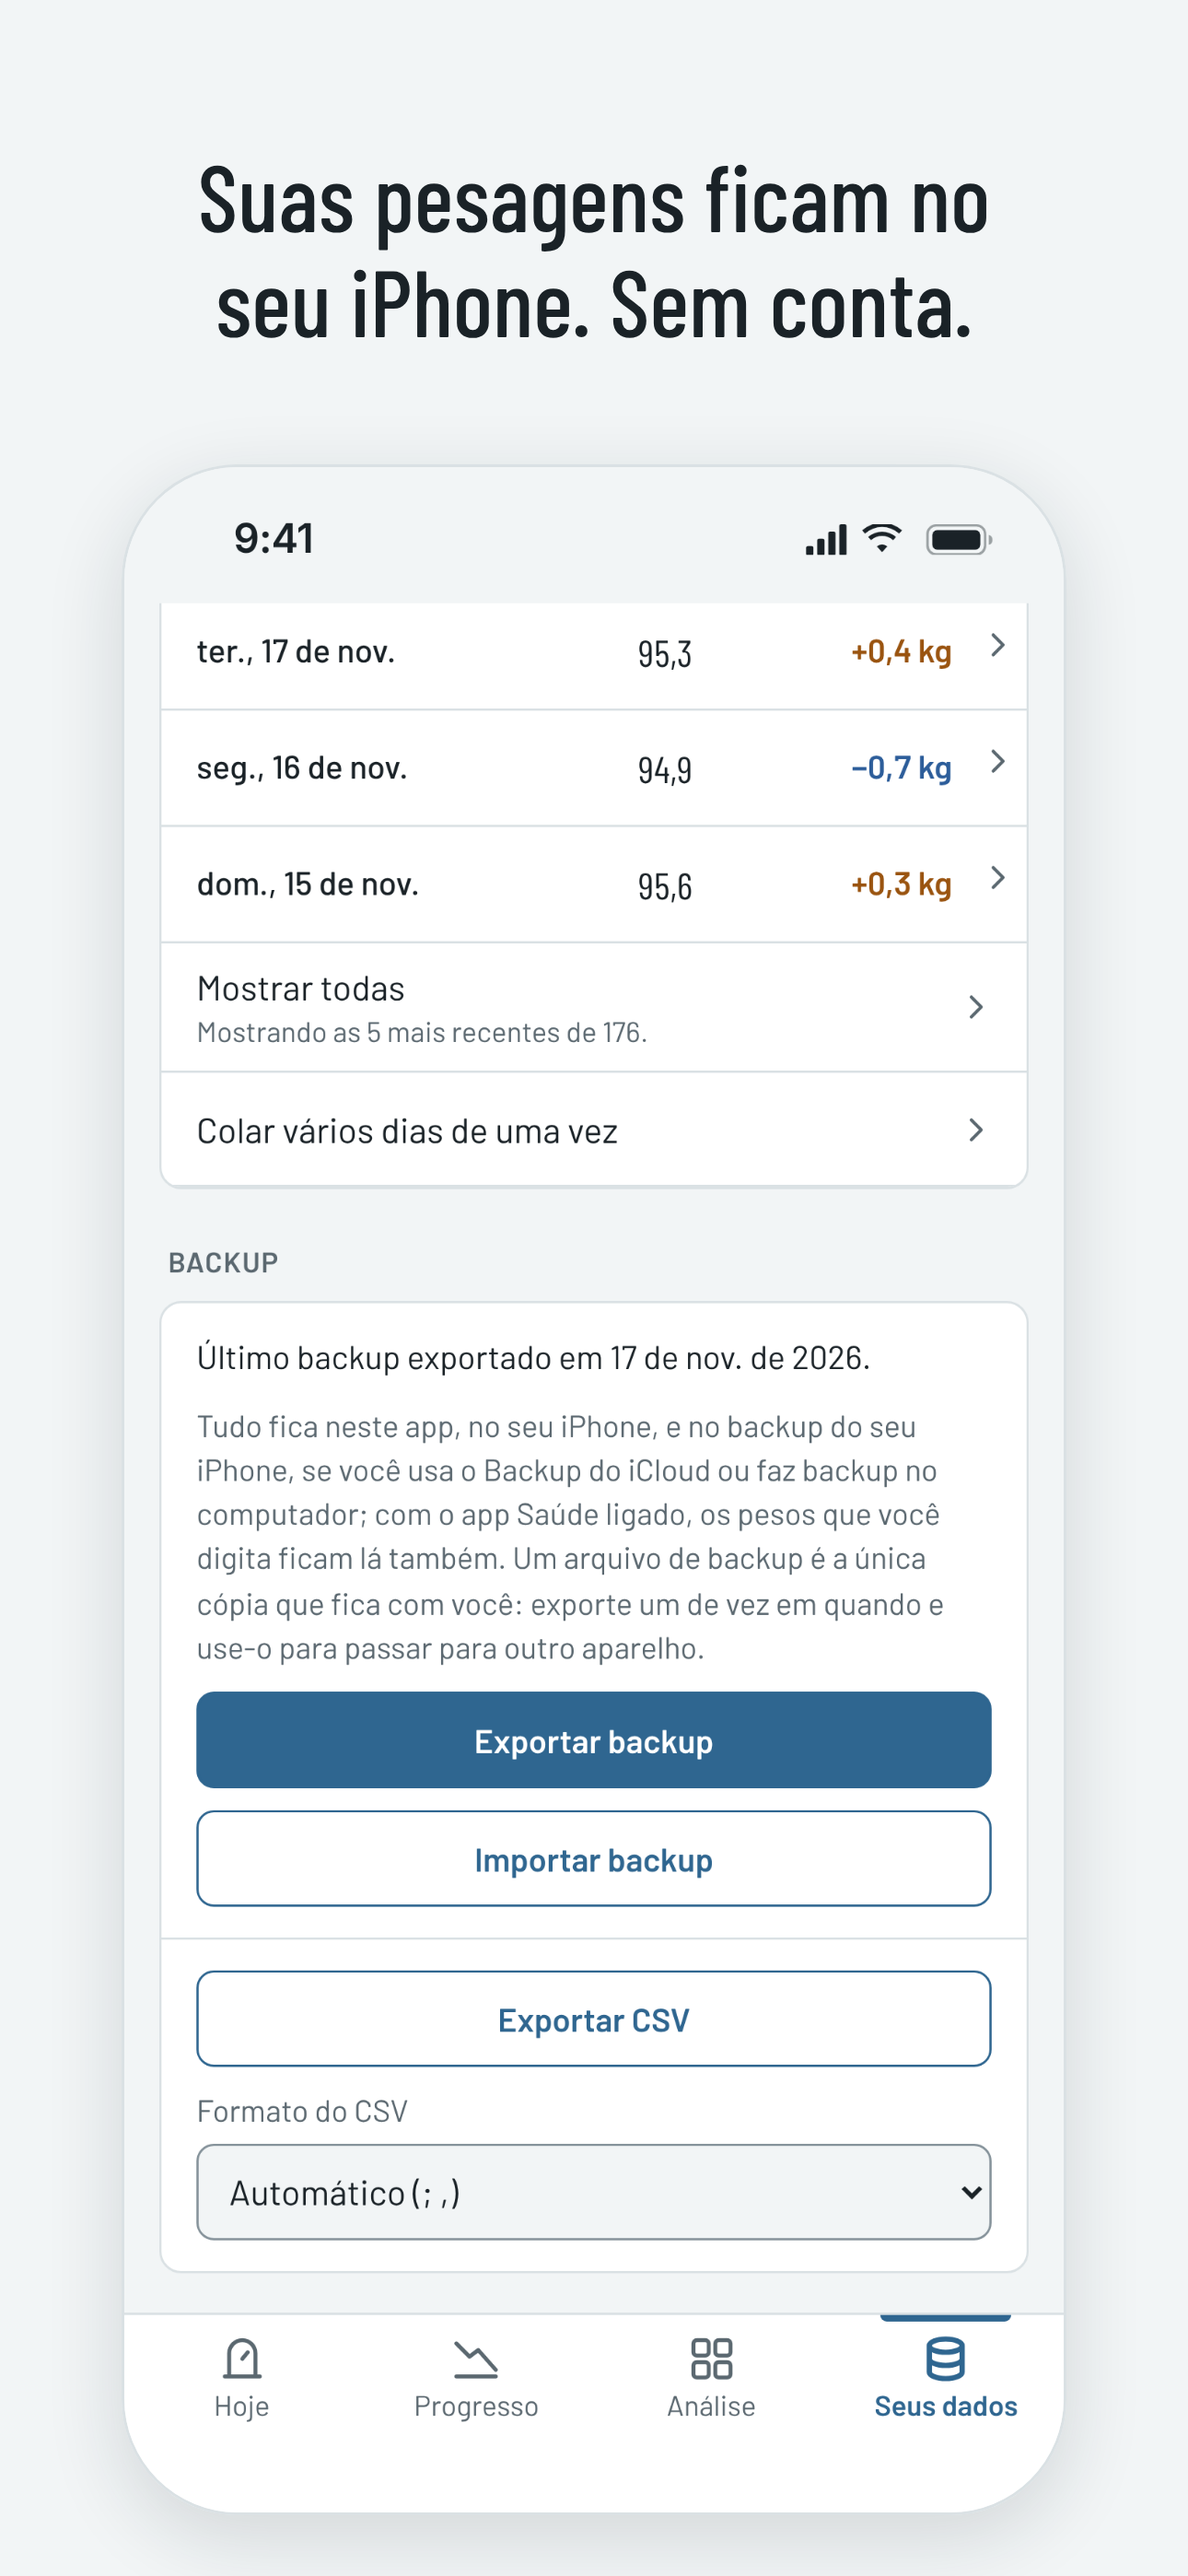
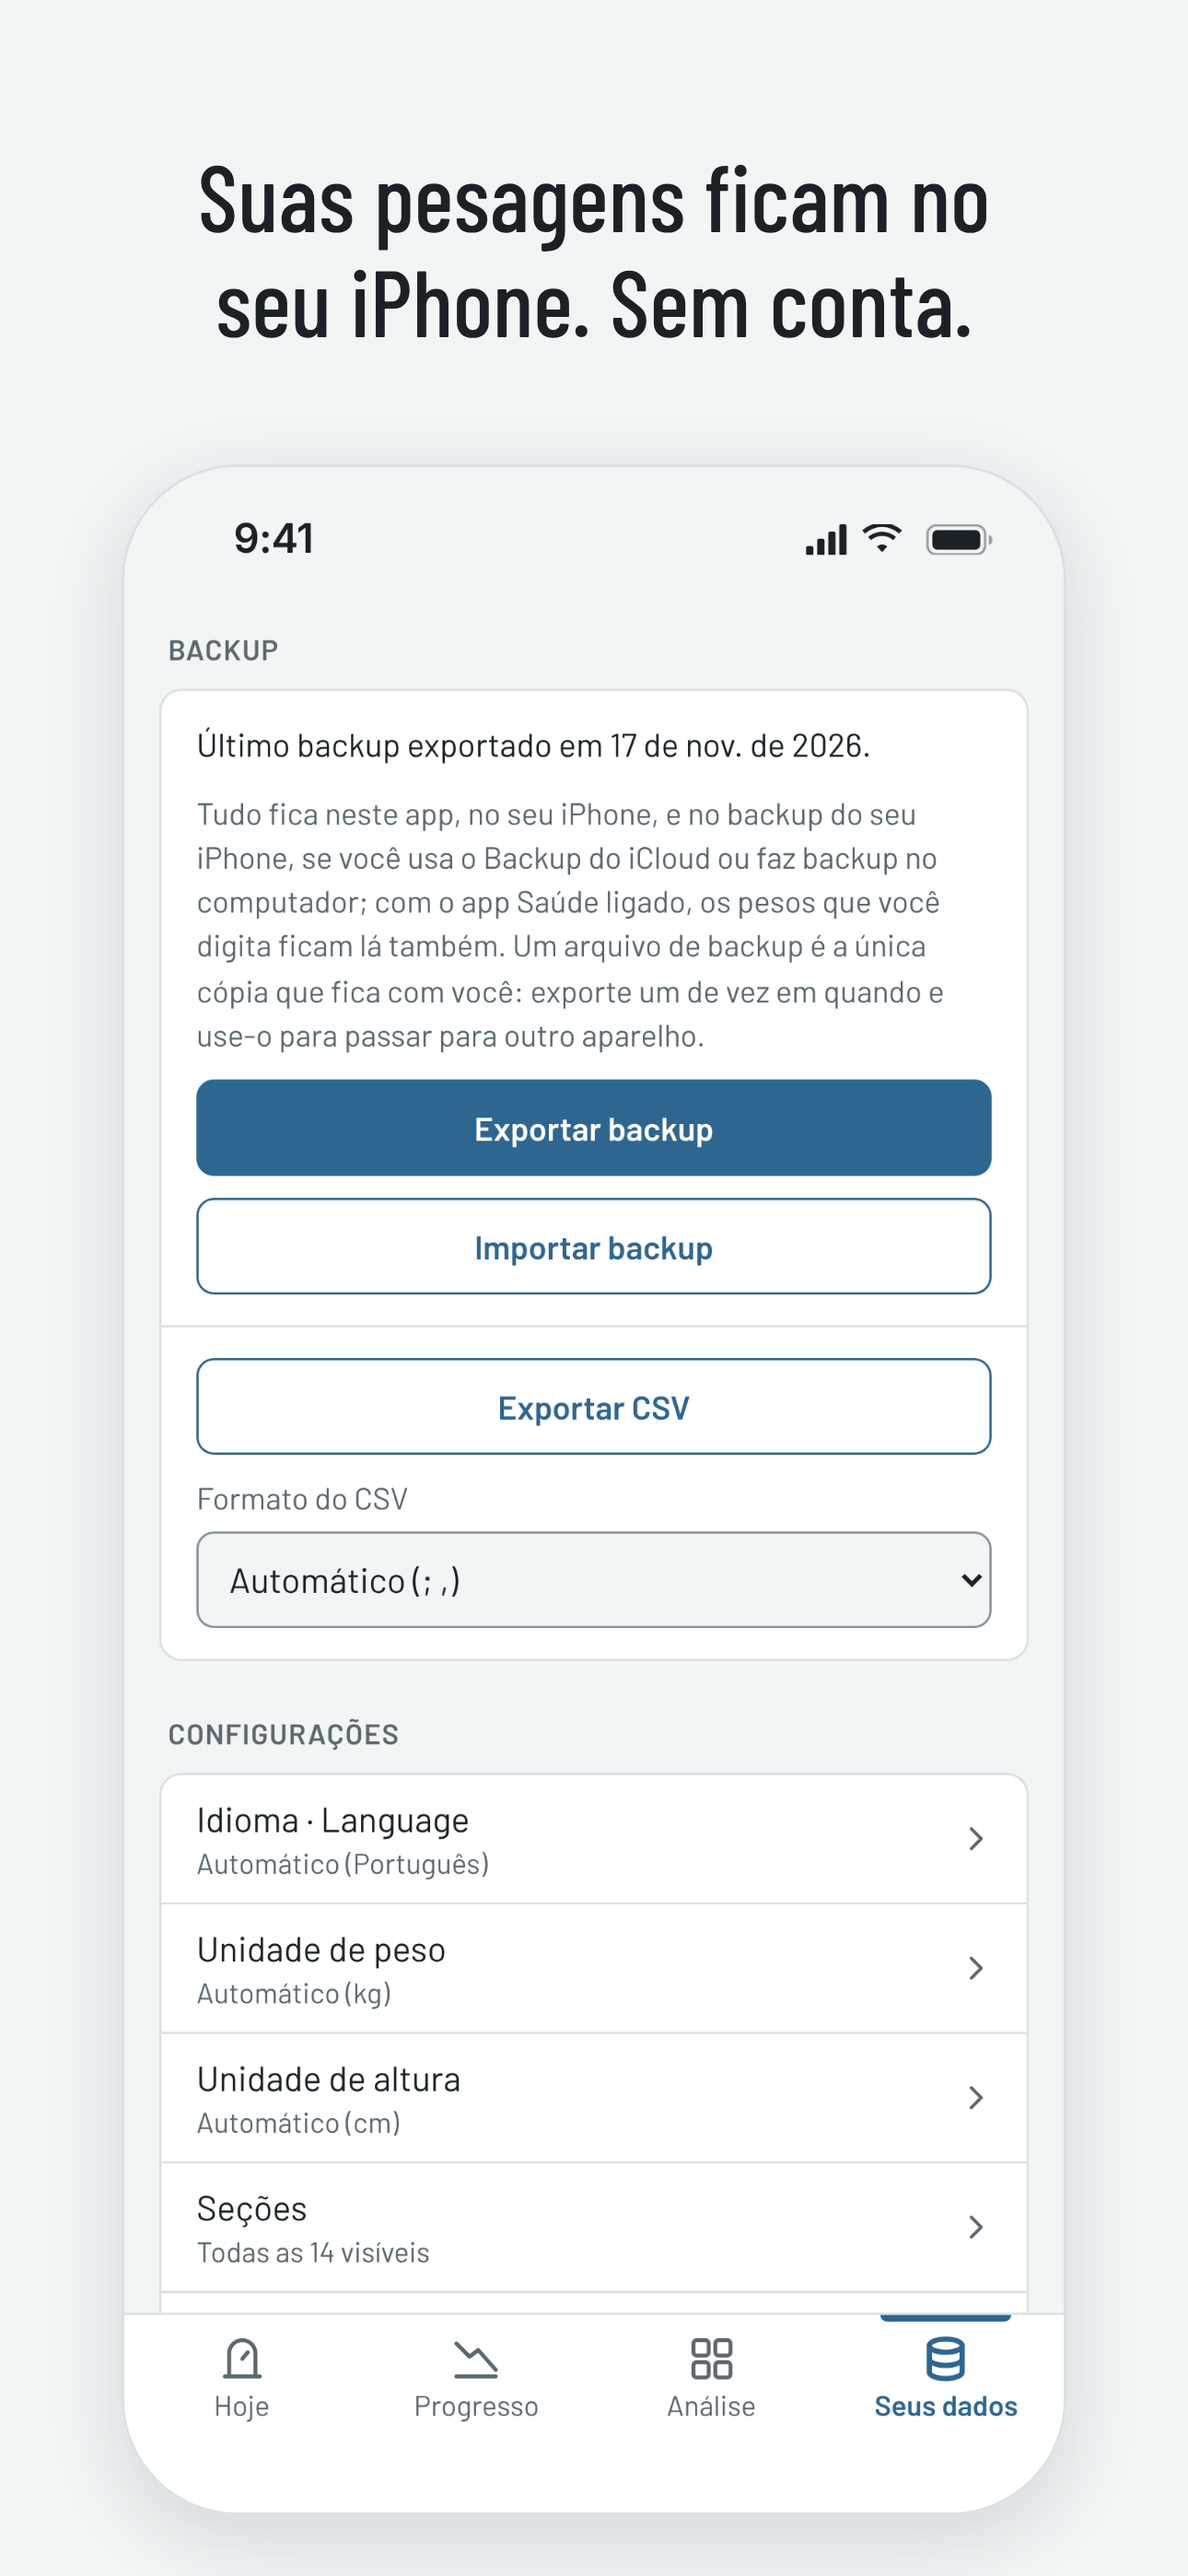
Listing, round 2: frames from the group labels, stricter framing check
From DaVinci's and Spock's reviews:
- 5-health and 6-backups start at their group's label, about 12 points under the
  status bar (6 to 36 allowed); the Portuguese iPhone app group can't fit its
  label and a clean end, so it falls back to the reminder's card, ending on
  Remove ads' title with its first line.
- The framing check keeps 8 points clear above the tab bar, fails a paragraph,
  heading, label or cell that starts above the status bar or runs on under the
  tab bar, counts list rows by their words, and searches at most 300 points.
- compose applies the caption size it measures; the body caption says "by
  formulas".
- Decisions 166 and 168 updated.

Claude-Session: https://claude.ai/code/session_011eyJmFqrKPtnAc9no4tn3K

Changed region(s): [[0.124, 0.2489, 0.8372, 0.9024], [0.8062, 0.8401, 0.8372, 0.8712], [0.8062, 0.5912, 0.8372, 0.6223]]

diff --git a/docs/decisions.md b/docs/decisions.md
@@ -1142,17 +1142,24 @@ Choices made while building the App Store listing, open to the owner under decis
      `npm run store:screenshots` makes, in each language, in this order: Progress (the trend and the
      projection's whole sentence), Today in the dark theme with this morning's weight typed, the
      Compound daily rate's simulator at "Use my current rate" down to its summary with the goal's
-     date and the table under it, Body composition (estimates), Your data's daily reminder and
-     Apple Health (ending with Apple Health), and Backup (what stays on the iPhone and the copies the
-     person keeps). Each picture is the screen, scaled down whole with rounded corners and no device
+     date and the table under it, Body composition (estimates), Your data's iPhone app group from
+     its label (the daily reminder and Apple Health), and Backup from its label (what stays on the
+     iPhone and the copies the person keeps; the group is shorter than the screen, so the first rows
+     of Settings show under it). Each picture is the screen, scaled down whole with rounded corners and no device
      frame, under a caption of at most two lines in the top 18%, on the app's background (light, or
      dark for Today) in its views' heading font (Barlow Condensed) and its text colour: 14.7:1 in
      light, 15.1:1 in dark, and the script stops under 4.5:1 or over two lines. The captions are the
      listing's words, not the app's, so they live in `scripts/store-captions.json`, in English and
      Portuguese, and the test checks every screen has one. Each screen is framed by the script, not
-     by hand: as near as it can to the place asked for, with what must show wholly above the tab
-     bar and what must not show under it, and it stops when no line of text, control or chart is
-     left halfway under the status bar or the tab bar, nor a heading as the last thing on screen.
+     by hand: as near as it can to the place asked for (a group's label about 12 points under the
+     status bar, from 6 to 36), with what must show wholly above the tab bar and what must not show
+     under it, and it stops unless no line of text, control or chart is cut by the status bar or
+     within 8 points of the tab bar, no paragraph, heading, label or cell starts above the status
+     bar or runs on under the tab bar, and no heading is the last thing on screen; a list row counts
+     by its words, not its padding. Where a frame can't be had, a second one may be named: the
+     Portuguese iPhone app group is too tall for its label and a clean end, so it starts at the
+     reminder's card, the label just under the status bar, and ends on Remove ads' title with its
+     first line.
      The diary is six months from 106 kg (1.80 m, born 1984, a man), with a last week a little
      better than the one before, so Today says a small fall; the goal is a round number in the
      region's unit, 195 lb on the American screens and 88 kg on the Brazilian ones. A few days come
@@ -1186,5 +1193,7 @@ Choices made while building the App Store listing, open to the owner under decis
 168. **Two small changes to the app, found while framing the screenshots.** A card shown with only
      some of its blocks (Options › Custom) drew an empty band and a rule above its first block,
      the rule meant to part it from a hidden one: a block is now ruled off only from a block shown
-     before it (`:not([hidden]) ~ .sub`, no `:has()` for Safari 15). The import's two buttons carry
+     before it (`:not([hidden]) ~ .sub`, no `:has()` for Safari 15). So a card's blocks must be hidden
+     with the `hidden` attribute (as `rates.ts` and `percent.ts` do), not with a class or a style,
+     or the next block would lose its rule. The import's two buttons carry
      `data-import="merge"` and `"replace"`, so scripts find them in either language.
